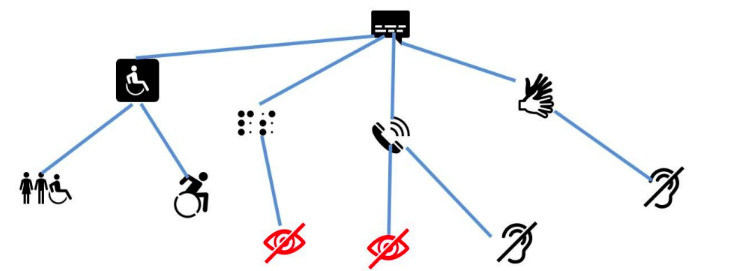
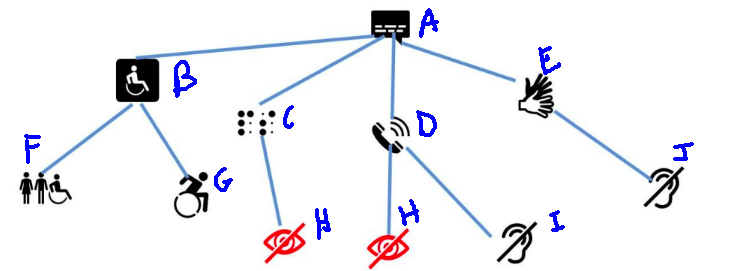
modelagem das outras ilustracoes (ok)

diff --git a/code/ucs.py b/code/ucs.py
@@ -1,25 +1,48 @@
-# Modelos
-
-ilustracao1 = {'A': {'filhos': ['B', 'C', 'D', 'E'], 'custos': {'B': 4, 'C': 3, 'D': 2, 'E': 10}},
-               'B': {'filhos': ['F', 'G'], 'custos': {'A': 4, 'F': 5, 'G': 7}},
-               'C': {'filhos': ['H'], 'custos': {'A': 3, 'H': 10}},
-               'D': {'filhos': ['H', 'I'], 'custos': {'A': 2, 'H': 12, 'I': 8}},
-               'E': {'filhos': ['J'], 'custos': {'A': 7, 'J': 10}},
-               'F': {'filhos': [], 'custos': {'B': 5}},
-               'G': {'filhos': [], 'custos': {'B': 7}},
-               'H': {'filhos': [], 'custos': {'C': 10, 'D': 12}},
-               'I': {'filhos': [], 'custos': {'D': 8}},
-               'J': {'filhos': [], 'custos': {'E': 10}}
-               }
-
+# biblioteca python para ordenar listas
 import heapq
+arvore = {'A': {'filhos': ['B', 'C', 'D', 'E'], 'custos': {'B': 4, 'C': 3, 'D': 2, 'E': 10}},
+          'B': {'filhos': ['F', 'G'], 'custos': {'A': 4, 'F': 5, 'G': 7}},
+          'C': {'filhos': ['H'], 'custos': {'A': 3, 'H': 10}},
+          'D': {'filhos': ['H', 'I'], 'custos': {'A': 2, 'H': 12, 'I': 8}},
+          'E': {'filhos': ['J'], 'custos': {'A': 7, 'J': 10}},
+          'F': {'filhos': [], 'custos': {'B': 5}},
+          'G': {'filhos': [], 'custos': {'B': 7}},
+          'H': {'filhos': [], 'custos': {'C': 10, 'D': 12}},
+          'I': {'filhos': [], 'custos': {'D': 8}},
+          'J': {'filhos': [], 'custos': {'E': 10}}
+          }
 
-# sempre encontra o caminho menos custoso
 def ucs(arvore, inicio, objetivo):
+    # Fila de prioridade -> ORDENAR
+    fila_prioridade = []
+    # adicionar na fila de prioridades
+    heapq.heappush(fila_prioridade, (0, (inicio, [inicio])))
+    nos_visitados = []
 
-    # Fila de prioridade (ordenada)
-    fila_prioridades = []
+    while fila_prioridade:
 
-    # adicionar na fila de fila_prioridades
-    heapq.heappush(fila_prioridades, (0, (inicio, [inicio])))
+        # retira da fila de prioridades
+        expande = []
+        # retira o elemento com menor custo acumulativo
+        expande.append(heapq.heappop(fila_prioridade))
+        (pai, caminho) = expande[0][1]
+
+        # pega o custo acumulativo
+        custo = expande[0][0]
+        nos_visitados.append(pai)
+
+        if pai == objetivo:
+            resultado = {'caminho': caminho, 'custo': custo,
+                         'nos_visitados': nos_visitados}
+            return resultado
+
+        filhos = arvore[pai]['filhos']
+        for filho in filhos:
+            custo_acc = custo + arvore[filho]['custos'][pai]
+            # essa estrutura heap já ordena de acorco com o custo acumulado
+            heapq.heappush(fila_prioridade, (custo_acc,
+                                             (filho, caminho + [filho])))
+
+
+print('UCS: ', ucs(arvore, 'A', 'H'))
 

diff --git a/code/bfs.py b/code/bfs.py
@@ -70,28 +70,40 @@ torre_hanoi_prof = {
   '26' : ['18']
 }
 
+
 ilustracao1 = {
-    'teclado':['placa', 'pontos', 'telefone', 'maos'], 
-    'placa':['pessoas', 'cadeirante'],
-    'pessoas':[],
-    'cadeirante':[],
-    'pontos':['sucesso'],
-    'sucesso':[],
-    'telefone':['sucesso', 'orelha'],
-    'orelha':[],
-    'maos':['orelha']
+    'A':['B', 'C', 'D', 'E'],
+    'B':['F', 'G'],
+    'C':['H'],
+    'D':['H', 'I'],
+    'E':['J'],
+    'F':[],
+    'G':[],
+    'H':[],
+    'I':[],
+    'J':[]
 }
 
 ilustracao2 = {
-    'teclado':['placa', 'pontos', 'telefone', 'maos'], 
-    'placa':['pessoas', 'cadeirante'],
-    'pessoas':[],
-    'cadeirante':[],
-    'pontos':['sucesso'],
-    'sucesso':[],
-    'telefone':['sucesso', 'orelha'],
-    'orelha':[],
-    'maos':['orelha']
+  'A':['B', 'S'],
+  'B':['C', 'G', 'H'],
+  'C':['D', 'F'],
+  'D':['E'],
+  'E':[],
+  'F':['E'],
+  'G':['E'],
+  'H':['F'],
+  'I':['J'],
+  'J':['K', 'L'],
+  'K':[],
+  'L':[],
+  'M':['N', 'O'],
+  'N':['L'],
+  'O':['L', 'P'],
+  'P':[],
+  'Q':[],
+  'R':['Q'],
+  'S':['I', 'M', 'R']
 }
 
 # localiza o caminho mais curto entre 2 nós de um gráfico usando BFS
@@ -110,6 +122,7 @@ def bfs_shortest_path(graph, start, goal):
     while queue:
         # pop o primeiro caminho da fila
         path = queue.pop(0)
+
         # obtem o último nó do caminho
         node = path[-1]
         if node not in explored:
@@ -131,11 +144,19 @@ def bfs_shortest_path(graph, start, goal):
     # caso não haja caminho entre os 2 nós
     return "Desculpe, mas não existe um caminho de conexão :("
  
-(comprimento, nos_percorridos) = bfs_shortest_path(graph, 'A', 'D')
+# (comprimento, nos_percorridos) = bfs_shortest_path(graph, 'A', 'D')
 # (comprimento, nos_percorridos) = bfs_shortest_path(torre_hanoi, '0', '14') 
 # (comprimento, nos_percorridos) = bfs_shortest_path(torre_hanoi_prof, '0', '18')  
-# (comprimento, nos_percorridos) = bfs_shortest_path(ilustracao1, 'teclado', 'sucesso') 
+# (comprimento, nos_percorridos) = bfs_shortest_path(ilustracao1, 'A', 'H') 
 
+# destino = alvo (E)
+(comprimento, nos_percorridos) = bfs_shortest_path(ilustracao2, 'A', 'E') 
+
+# destino = emogi sério (L)
+# (comprimento, nos_percorridos) = bfs_shortest_path(ilustracao2, 'A', 'L') 
+
+# destino = emogi triste (Q)
+# (comprimento, nos_percorridos) = bfs_shortest_path(ilustracao2, 'A', 'Q') 
 
 print('comprimento ({}): '.format(len(comprimento)), comprimento)
 print('nos percorridos ({}): '.format(len(nos_percorridos)), nos_percorridos)

diff --git a/code/dfs_feito_em_aula.py b/code/dfs_feito_em_aula.py
@@ -1,0 +1,54 @@
+### MODELAGEM ###
+
+# Arvore com custos
+## key: value
+## chave : valor
+# Dicionário - entre chaves
+
+'''
+{
+    'A':
+        'filhos': ['B', 'C', 'D', 'E'],
+        'custos': {'B': 4, 'C': 3, 'D': 2, 'E': 10}
+}
+
+'''
+import heapq
+arvore = {'A': {'filhos': ['B', 'C', 'D', 'E'], 'custos': {'B': 4, 'C': 3, 'D': 2, 'E': 10}},
+          'B': {'filhos': ['F', 'G'], 'custos': {'A': 4, 'F': 5, 'G': 7}},
+          'C': {'filhos': ['H'], 'custos': {'A': 3, 'H': 10}},
+          'D': {'filhos': ['H', 'I'], 'custos': {'A': 2, 'H': 12, 'I': 8}},
+          'E': {'filhos': ['J'], 'custos': {'A': 7, 'J': 10}},
+          'F': {'filhos': [], 'custos': {'B': 5}},
+          'G': {'filhos': [], 'custos': {'B': 7}},
+          'H': {'filhos': [], 'custos': {'C': 10, 'D': 12}},
+          'I': {'filhos': [], 'custos': {'D': 8}},
+          'J': {'filhos': [], 'custos': {'E': 10}}
+          }
+
+
+def dfs(arvore, node_inicio, objetivo):
+
+    # Pilha - O primeiro que entra, ultimo a sair
+    # O ultimo que entra, primeiro a sair
+
+    pilha = [(node_inicio, [node_inicio])]
+    percorridos = []
+    # Enquanto tiver elemento na pilha
+    while pilha:
+        # Retira o elemento do topo da pilha
+        # (pai, caminho)= pilha.pop(0) - BFS
+        (pai, caminho) = pilha.pop()
+        percorridos.append(pai)
+
+        if pai == objetivo:
+            return {'caminho': caminho, 'nos_percorridos': percorridos}
+        # Pega os filhos de um determinado pai da arvore
+        filhos = arvore[pai]['filhos']
+
+        # Loop que expande cada filho do nó pai
+        for filho in filhos:
+            pilha.append((filho, caminho + [filho]))
+
+
+print(dfs(arvore, 'A', 'H'))

diff --git a/code/dfs.py b/code/dfs.py
@@ -71,15 +71,38 @@ torre_hanoi_prof = {
 }
 
 ilustracao1 = {
-    'teclado':['placa', 'pontos', 'telefone', 'maos'], 
-    'placa':['pessoas', 'cadeirante'],
-    'pessoas':[],
-    'cadeirante':[],
-    'pontos':['sucesso'],
-    'sucesso':[],
-    'telefone':['sucesso', 'orelha'],
-    'orelha':[],
-    'maos':['orelha']
+    'A':['B', 'C', 'D', 'E'],
+    'B':['F', 'G'],
+    'C':['H'],
+    'D':['H', 'I'],
+    'E':['J'],
+    'F':[],
+    'G':[],
+    'H':[],
+    'I':[],
+    'J':[]
+}
+
+ilustracao2 = {
+  'A':['B', 'S'],
+  'B':['C', 'G', 'H'],
+  'C':['D', 'F'],
+  'D':['E'],
+  'E':[],
+  'F':['E'],
+  'G':['E'],
+  'H':['F'],
+  'I':['J'],
+  'J':['K', 'L'],
+  'K':[],
+  'L':[],
+  'M':['N', 'O'],
+  'N':['L'],
+  'O':['L', 'P'],
+  'P':[],
+  'Q':[],
+  'R':['Q'],
+  'S':['I', 'M', 'R']
 }
 
 percorridos = [] # Guarda os nos visitados
@@ -108,8 +131,16 @@ def dfs(node, destiny, arvore):
 caminho = dfs('A', 'E', graph)
 # caminho = dfs('0', '14', torre_hanoi)
 # caminho = dfs('0', '18', torre_hanoi_prof)
-# caminho = dfs('teclado', 'sucesso', ilustracao1)
+# caminho = dfs('A', 'H', ilustracao1)
 
+# destino = alvo (E)
+# caminho = dfs('A', 'E', ilustracao2)
+
+# destino = emogi sério (L)
+# (comprimento, nos_percorridos) = bfs_shortest_path(ilustracao2, 'A', 'L') 
+
+# destino = emogi triste (Q)
+# (comprimento, nos_percorridos) = bfs_shortest_path(ilustracao2, 'A', 'Q')
 
 # Resultado do algoritmo
 print('comprimento ({}): '.format(len(caminho)), caminho)
